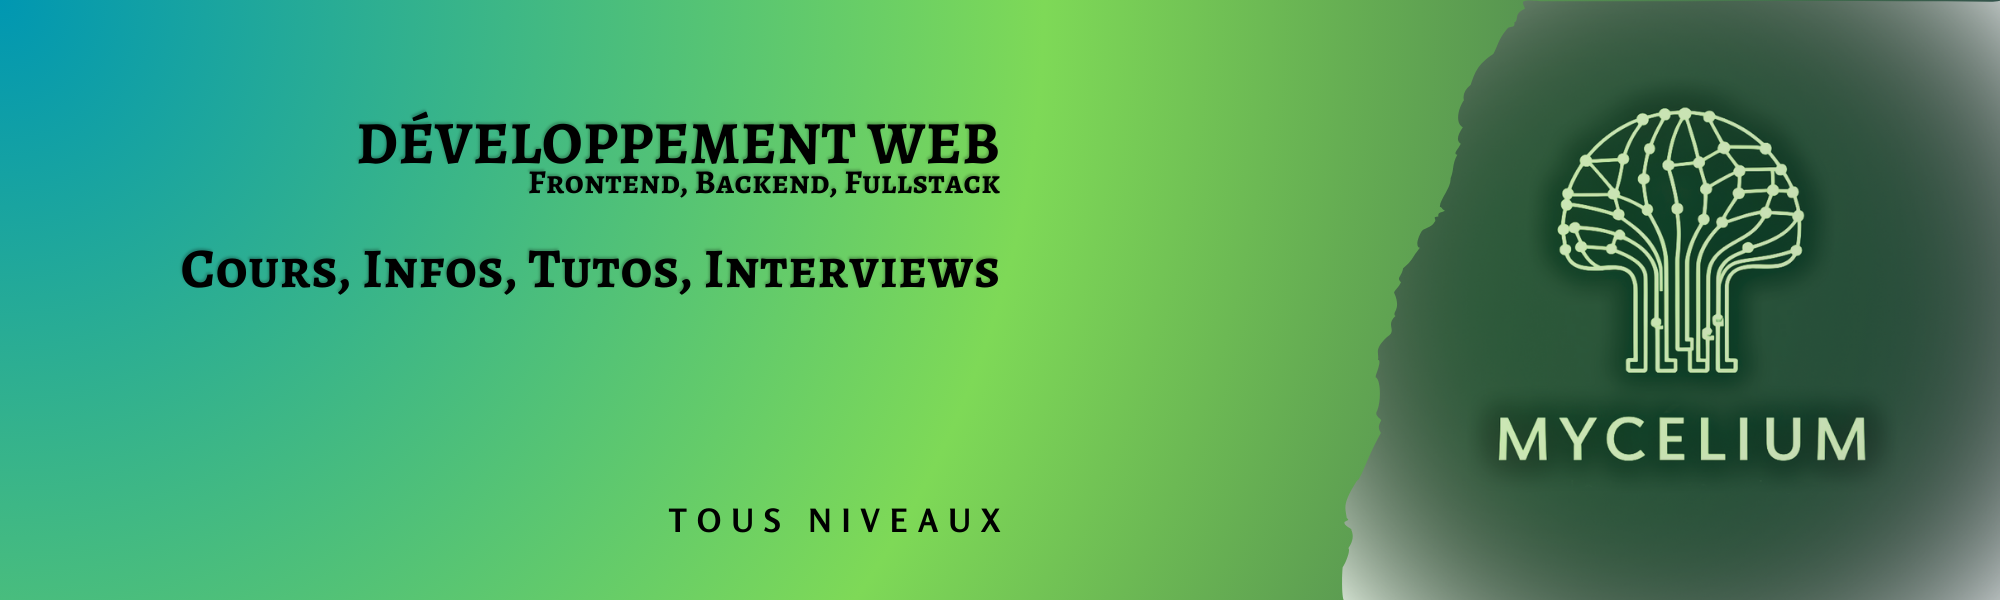
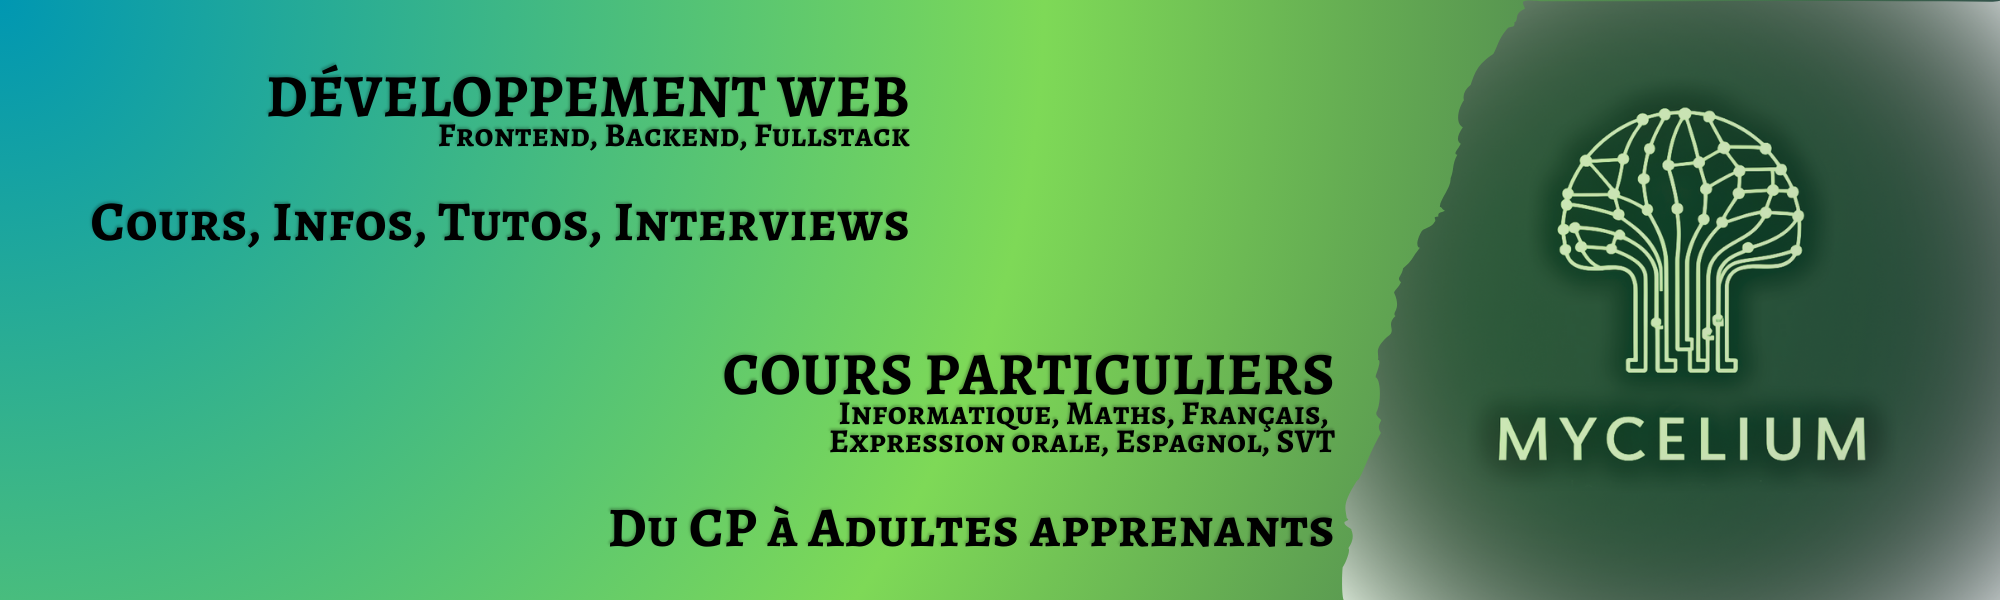
MAJ de la page d'accueil

Changed region(s): [[0.031, 0.12, 0.496, 0.48], [0.341, 0.57, 0.682, 0.78], [0.279, 0.84, 0.682, 0.93]]

diff --git a/src/components/HomepageFeatures/SherpasPub.js b/src/components/HomepageFeatures/SherpasPub.js
@@ -1,0 +1,127 @@
+import React from "react";
+import styles from "./styles.module.css";
+
+function SherpasPub() {
+  return (
+    <div className={styles.sherpasPub}>
+      <h3>Cours Particuliers en collaboration avec Les Sherpas</h3>
+      <p>Je donne également des cours particuliers en :</p>
+      <div className={styles.tableWrapper}>
+        <table className={styles.subjectTable}>
+          <thead>
+            <tr>
+              <th>
+                Matière <br />
+                <span className={styles.infos}>Clique pour plus d'infos</span>
+              </th>
+              <th>Classes</th>
+            </tr>
+          </thead>
+          <tbody>
+            <tr>
+              <td>
+                <a
+                  href="https://sherpas.com/t/developpeur-web-donne-des-cours-de-mise-a-niveau-en-informatique-de-tous-niveaux-de-la-primaire-a-la-terminale-molsheim-et-alentours-ou-en-ligne"
+                  target="_blank"
+                  rel="noopener noreferrer"
+                  className={styles.subject}
+                >
+                  Informatique
+                </a>
+              </td>
+              <td>Classes élémentaires à Adultes apprenants</td>
+            </tr>
+            <tr>
+              <td>
+                <a
+                  href="https://sherpas.com/t/professeur-de-maths-niveau-primaire-et-college-cours-sur-molsheim-ou-en-ligne-ancien-aesh?subjectName=Maths"
+                  target="_blank"
+                  rel="noopener noreferrer"
+                  className={styles.subject}
+                >
+                  Maths
+                </a>
+              </td>
+              <td>Du CP à la 3ème</td>
+            </tr>
+            <tr>
+              <td>
+                <a
+                  href="https://sherpas.com/t/cours-de-francais-dorthographe-de-grammaire-et-conjugaison-sur-molsheim-et-alentours-ou-en-ligne"
+                  target="_blank"
+                  rel="noopener noreferrer"
+                  className={styles.subject}
+                >
+                  Français
+                </a>
+              </td>
+              <td>Du CP à la 3ème</td>
+            </tr>
+            <tr>
+              <td>
+                <a
+                  href="https://sherpas.com/t/jai-lhabitude-de-donner-des-conferences-devant-du-public-je-saurais-te-donner-les-meilleurs-conseils-pour-que-ton-oral-se-passe-bien-en-ligne-uniquement"
+                  target="_blank"
+                  rel="noopener noreferrer"
+                  className={styles.subject}
+                >
+                  Expression Orale
+                </a>
+              </td>
+              <td>Classes élémentaires à Adultes apprenants</td>
+            </tr>
+            <tr>
+              <td>
+                <a
+                  href="https://sherpas.com/t/professeur-despagnol-sur-molsheim-ou-en-ligne-apprentissage-de-la-lecture-et-du-vocabulaire-de-la-magnifique-langue-de-cervantes-niveau-b1-b2"
+                  target="_blank"
+                  rel="noopener noreferrer"
+                  className={styles.subject}
+                >
+                  Espagnol
+                </a>
+              </td>
+              <td>Du CP à la 3ème</td>
+            </tr>
+            <tr>
+              <td>
+                <a
+                  href="https://sherpas.com/t/la-nature-est-si-belle-que-je-veux-la-rendre-encore-plus-belle-a-tes-yeux-cours-sur-molsheim-ou-en-ligne"
+                  target="_blank"
+                  rel="noopener noreferrer"
+                  className={styles.subject}
+                >
+                  Sciences de la Vie de la Terre
+                </a>
+              </td>
+              <td>Du CP à la 3ème</td>
+            </tr>
+          </tbody>
+        </table>
+      </div>
+
+      <a
+        href="https://sherpas.com/"
+        target="_blank"
+        rel="noopener noreferrer"
+        className={styles.link}
+      >
+        Modalités et Inscription sur{" "}
+        <span
+          className={styles.infos_sherpas}
+          style={{
+            display: "block",
+            fontSize: "0.8em",
+            color: "#95a3a5",
+            marginLeft: "5px",
+            fontWeight: "bold",
+          }}
+        >
+          sherpas.com
+        </span>
+      </a>
+    </div>
+  );
+}
+
+export default SherpasPub;

diff --git a/src/components/HomepageFeatures/styles.module.css b/src/components/HomepageFeatures/styles.module.css
@@ -9,3 +9,123 @@
   height: 200px;
   width: 200px;
 }
+
+.sherpasPub {
+  background-color: #cad1d2;
+  padding: 40px;
+  border-radius: 15px;
+  text-align: center;
+  margin-top: 40px;
+
+  h3 {
+    font-size: 2em;
+    color: #465e61;
+    margin-bottom: 20px;
+  }
+
+  p {
+    font-size: 1.2em;
+    line-height: 1.6;
+    color: #465e61;
+  }
+
+  .link {
+    display: inline-block;
+    margin-top: 20px;
+    padding: 10px 20px;
+    background-color: #2c474a;
+    color: white;
+    text-decoration: none;
+    border-radius: 5px;
+    font-weight: bold;
+
+    &:hover {
+      background-color: #1a8870;
+    }
+  }
+}
+
+.tableWrapper {
+  display: flex;
+  justify-content: center;
+  margin: 20px 0;
+}
+
+.subjectTable {
+  border-collapse: collapse;
+  margin: auto;
+  background-color: #fff;
+  border-radius: 10px;
+  box-shadow: 0 4px 8px rgba(0, 0, 0, 0.1);
+
+  th,
+  td {
+    padding: 15px;
+    text-align: left;
+    border-bottom: 1px solid #ddd;
+  }
+
+  th {
+    background-color: #2c474a;
+    color: white;
+    font-size: 1.2em;
+  }
+
+  td {
+    a {
+      font-weight: bold;
+      color: #2c474a;
+      text-decoration: none;
+      display: inline-block;
+      position: relative;
+      transition: color 0.3s, transform 0.3s;
+
+      &::after {
+        content: "↗";
+        font-size: 1em;
+        color: #2c474a;
+        position: absolute;
+        right: -20px;
+        opacity: 0;
+        transition: opacity 0.3s, transform 0.3s;
+        top: 50%;
+        transform: translateY(-50%);
+      }
+
+      &:hover,
+      &:focus {
+        color: #29d5b0;
+        transform: scale(1.05);
+
+        &::after {
+          opacity: 1;
+          transform: translateY(-50%) translateX(5px);
+        }
+      }
+    }
+  }
+
+  .infos {
+    display: block;
+    font-size: 0.8em;
+    color: #95a3a5;
+    margin-left: 5px;
+    font-weight: bold;
+    position: relative;
+    transition: color 0.3s, transform 0.3s;
+    color: #29d5b0;
+    animation: pulse 1s infinite;
+  }
+}
+
+@keyframes pulse {
+  0% {
+    transform: scale(1);
+  }
+  50% {
+    transform: scale(1.05);
+  }
+  100% {
+    transform: scale(1);
+  }
+}

diff --git a/src/components/HomepageFeatures/index.js b/src/components/HomepageFeatures/index.js
@@ -1,6 +1,7 @@
 import clsx from "clsx";
 import Heading from "@theme/Heading";
 import styles from "./styles.module.css";
+import SherpasPub from "./SherpasPub";
 
 const FeatureList = [
   {
@@ -58,6 +59,7 @@ export default function HomepageFeatures() {
             <Feature key={idx} {...props} />
           ))}
         </div>
+        <SherpasPub />
       </div>
     </section>
   );
